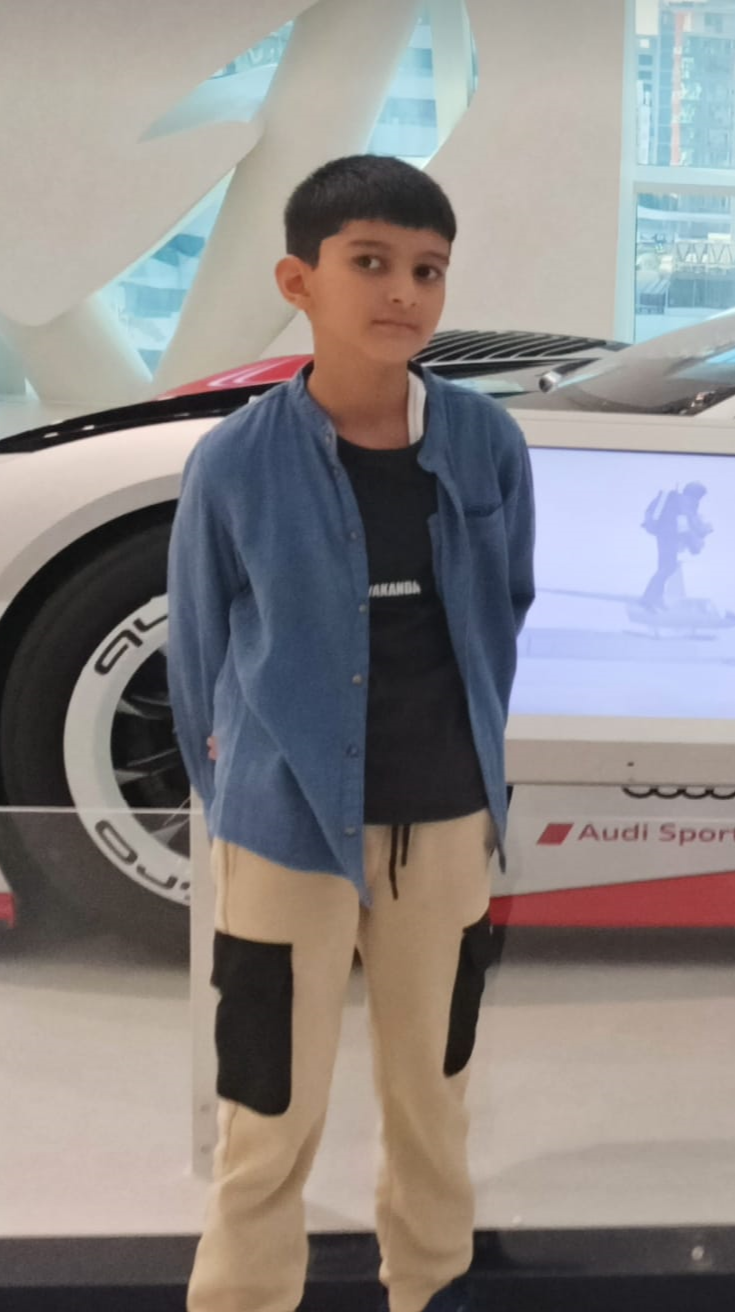
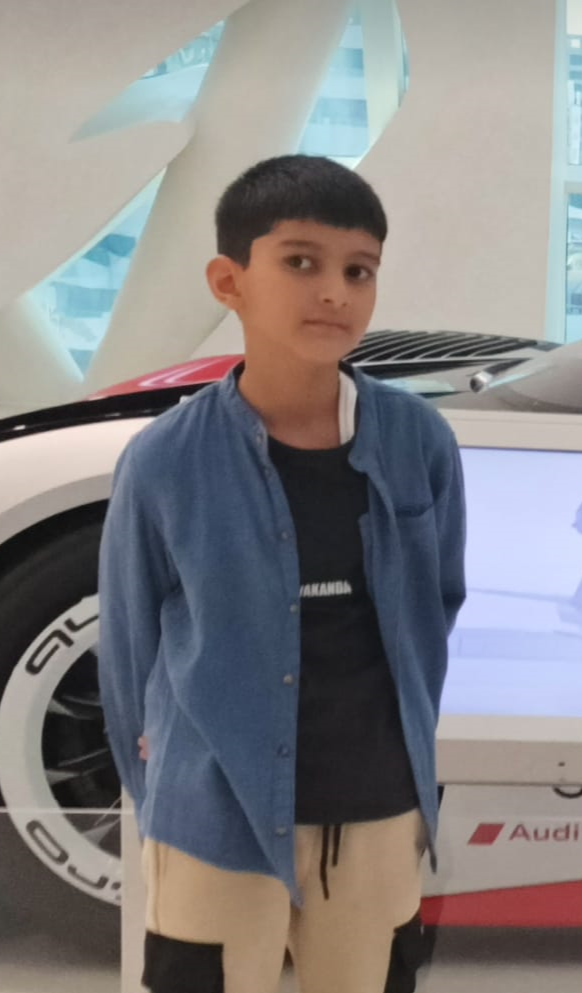
member pic updated

diff --git a/src/components/Members.js b/src/components/Members.js
@@ -124,13 +124,13 @@ const membersData = {
         {name: 'Anisha Mahajan', role: 'Member', image: 'Anisha Mahajan 11F.png'},
         {name: 'Naija Sukhija', role: 'Member', image: 'Naija Sukhija 11F.jpg'},
         {name: 'Suhani Mishra', role: 'Member', image: 'Suhani Mishra 11F.png'},
-        {name: 'Goutam Behera', role: 'Core Member', image: 'GOUTTAM.jpeg'},
-        {name: 'Aryaman Aggarwal', role: 'Member', image: 'path/to/member2.jpg'},
+        {name: 'Goutam Behera', role: 'Core Member', image: 'Gouttam 11G.jpeg'},
+        {name: 'Aryaman Aggarwal', role: 'Member', image: 'aryaman aggarwal 11 I.jpeg'},
         {name: 'Aryaman Singh Samyal', role: 'Member', image: 'Aryaman Singh Samyal 11M .png'},
     ],
     10: [
         {name: 'Vidhan Garg', role: 'Member', image: 'Vidhan Garg 10C.png'},
-        {name: 'Chyanika Negi', role: 'Member', image: 'path/to/member2.jpg'},
+        {name: 'Chyanika Negi', role: 'Member', image: 'Chayanika Negi 10J.jpg'},
     ],
     9: [
         {name: 'Devansh Kumar', role: 'Member', image: 'Devansh Kumar 9H.jpg'},
